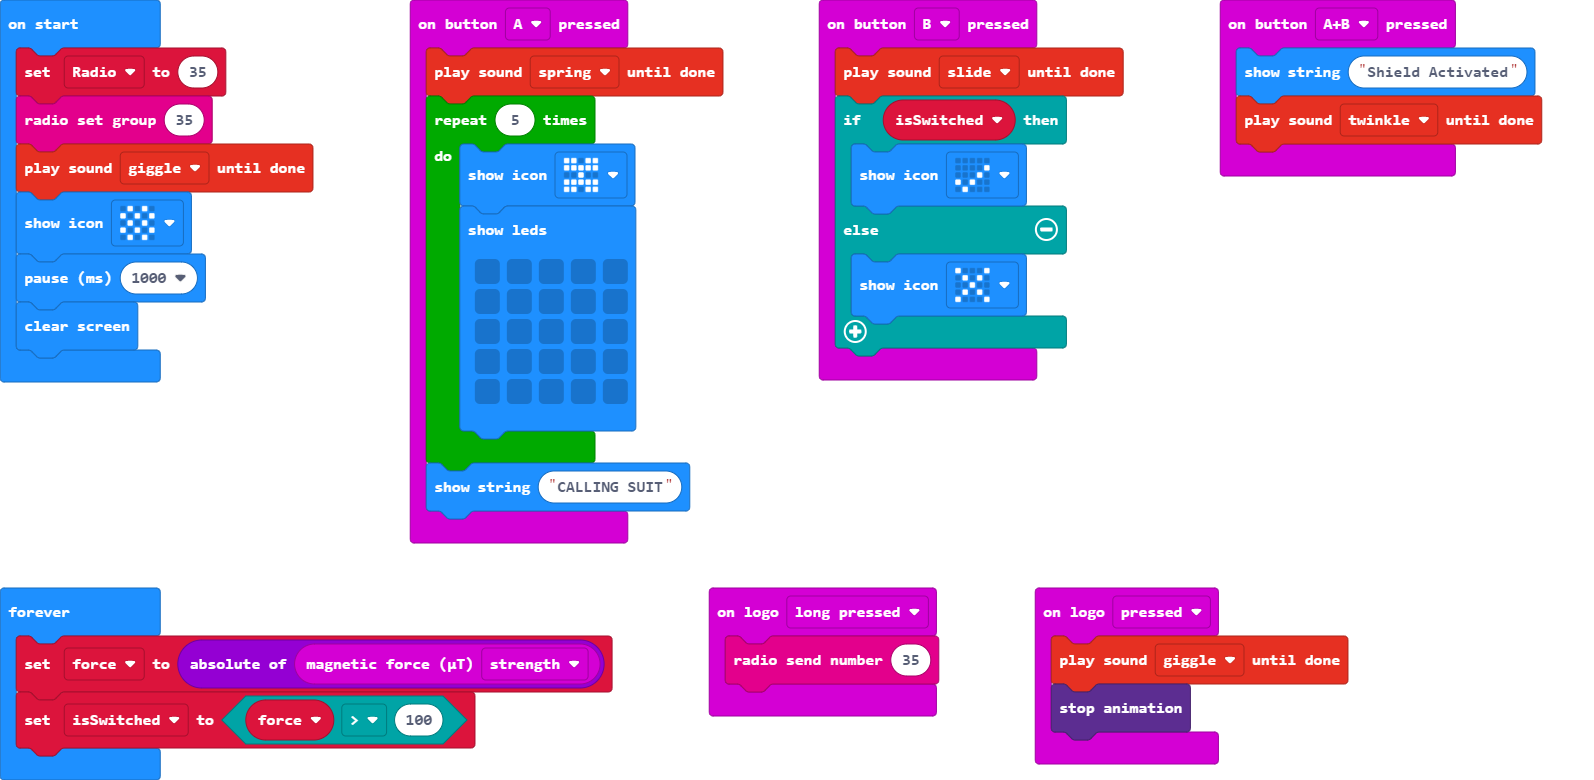
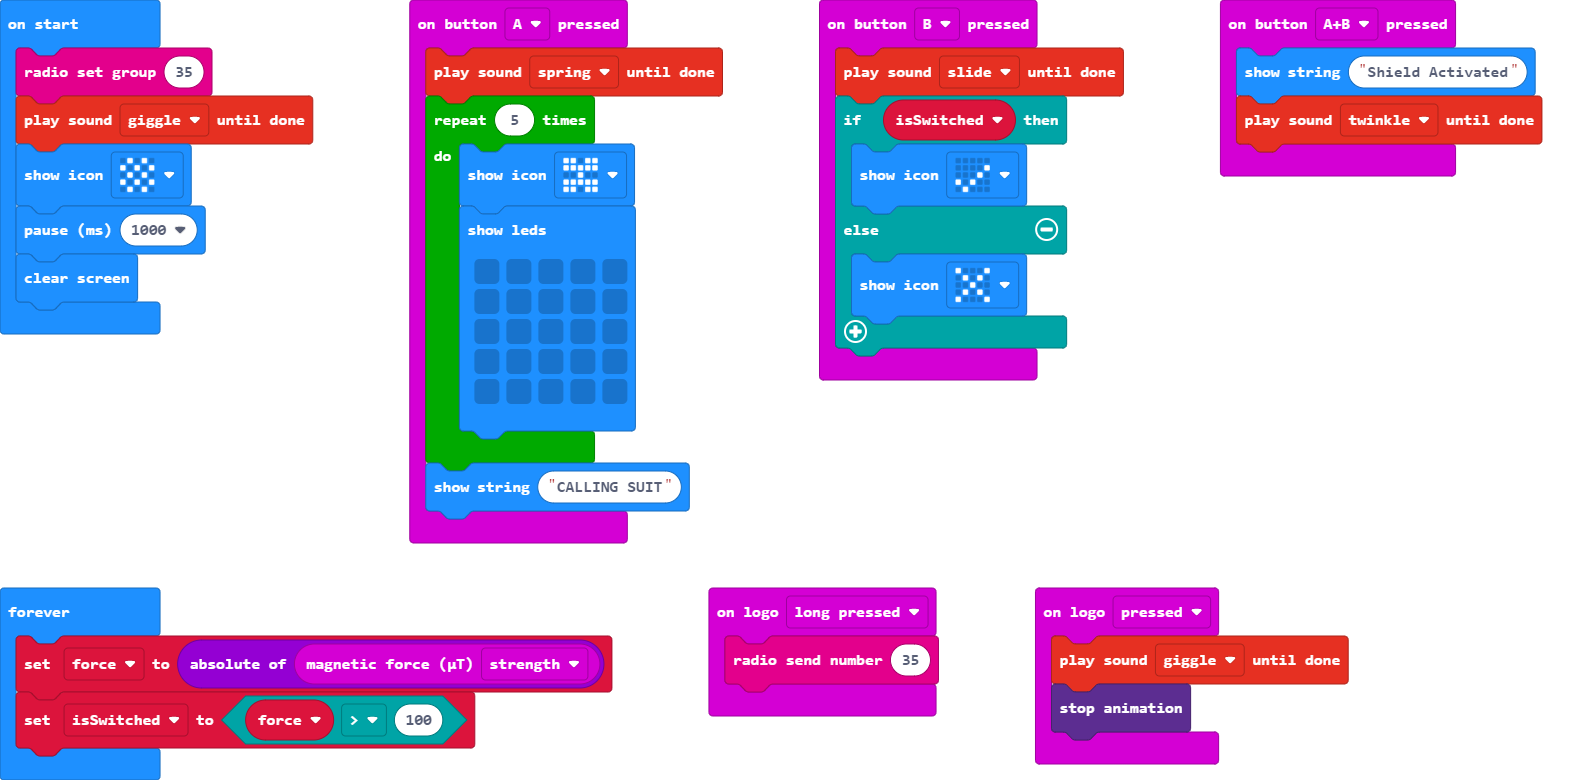
Update main.blocks, main.ts

diff --git a/main.ts b/main.ts
@@ -36,7 +36,6 @@ input.onLogoEvent(TouchButtonEvent.Pressed, function () {
 })
 let force = 0
 let isSwitched = false
-let Radio = 35
 radio.setGroup(35)
 soundExpression.giggle.playUntilDone()
 basic.showIcon(IconNames.Chessboard)
